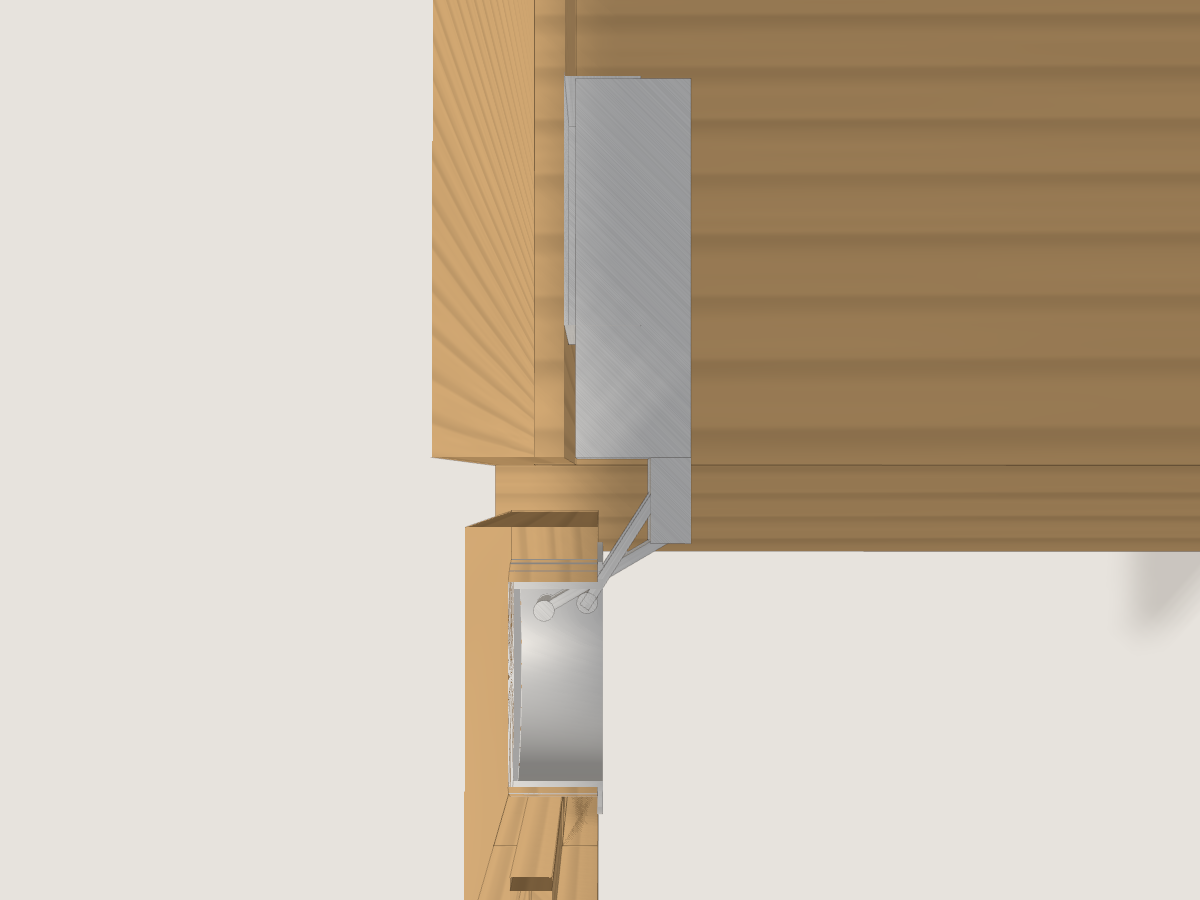
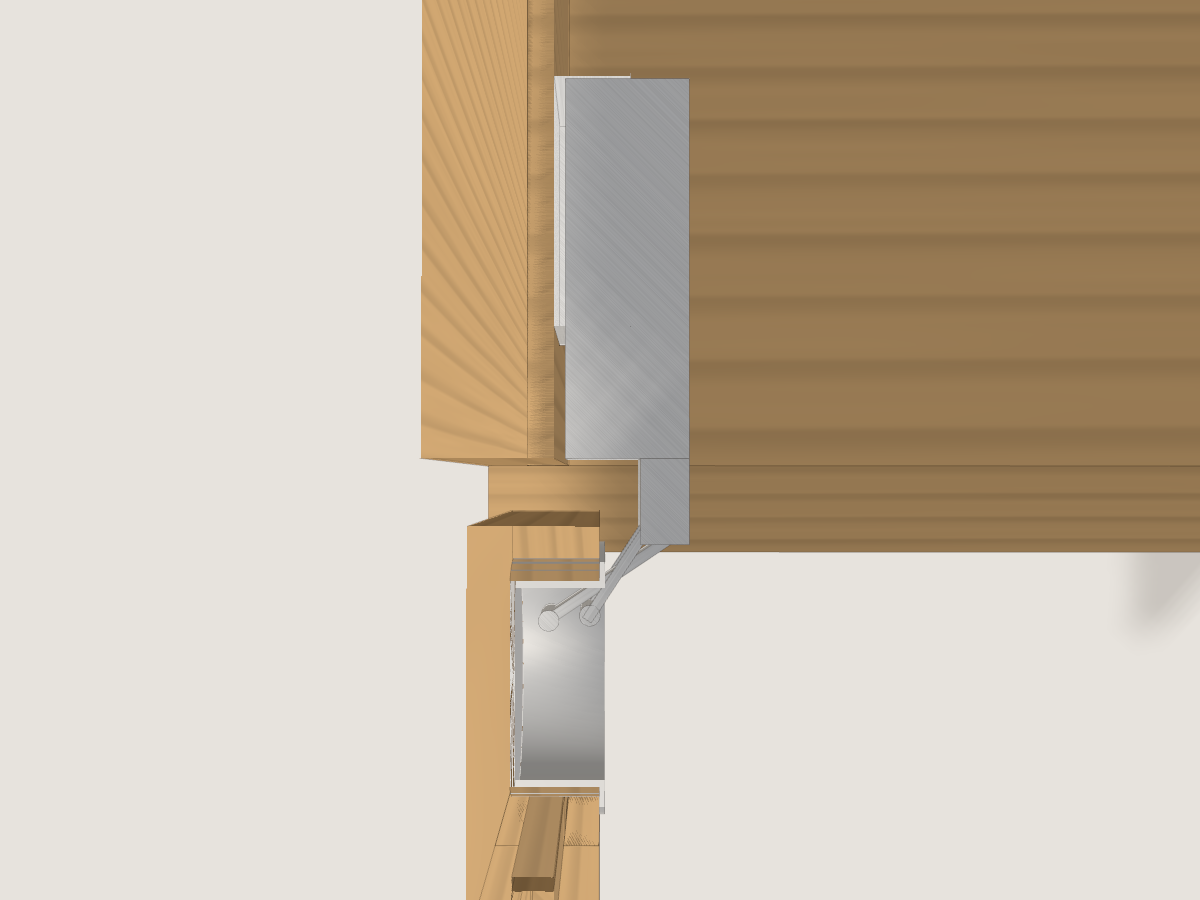
docs(screenshots): re-render every cup hinge picture with the refitted linkage
The hinge close-ups (from above at 0, 45, 90 and 110deg, from inside at
90deg), the cabinet open, at rest and exploded, the drawer on the bench,
door_hits_side at its new contact, and the cabinet's focus pictures are
drawn again with the current mechanism. The old window screenshot,
which showed the hinge before it was a linkage and can't be taken here,
is removed; nothing referred to it.

Changed region(s): [[0.3392, 0.0, 0.4933, 0.5911], [0.4008, 0.4978, 0.5858, 1.0]]

diff --git a/docs/STATUS.md b/docs/STATUS.md
@@ -149,7 +149,8 @@ project's scenes in a dropdown. It reloads when a file changes.
   `stave-gtk examples/clothing_cabinet --screenshot h.png --open door_l=45
   --frame 'door_l.hinges[lower]' --pitch 89 --turn -33.2 --section up=657`.
   `--flat` draws flat; `--no-tint` leaves cut faces untinted.
-  See `docs/screenshots/viewer/` and `docs/screenshots/hinge/`.
+  See `docs/screenshots/viewer/` and `docs/screenshots/hinge/` (rendered
+  with the refitted linkage).
 - **Focus offscreen**: `--focus NAME` (a joint or a piece of hardware),
   `--pair N` (which pair of a joint, from 0), `--step AMOUNT` (0 apart to
   1 together, or 0 closed to 1 open; an `--open` of the focused door sets
